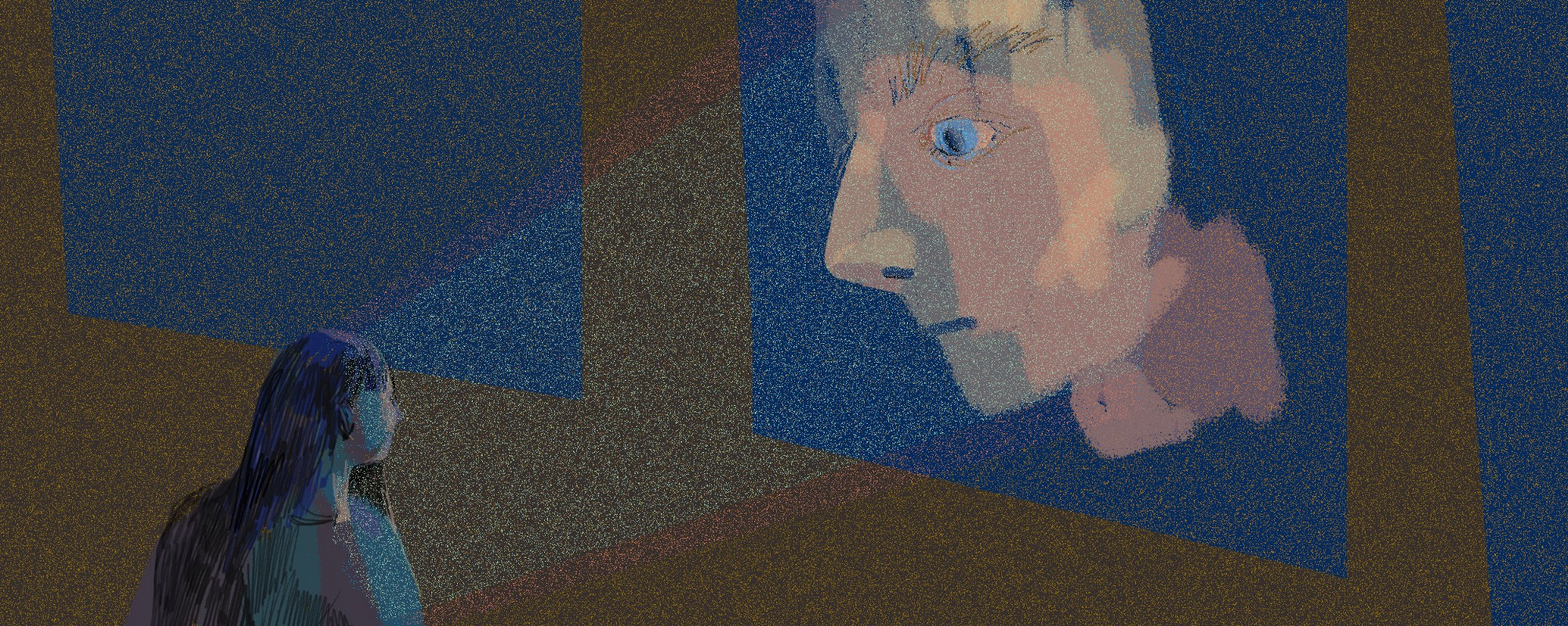
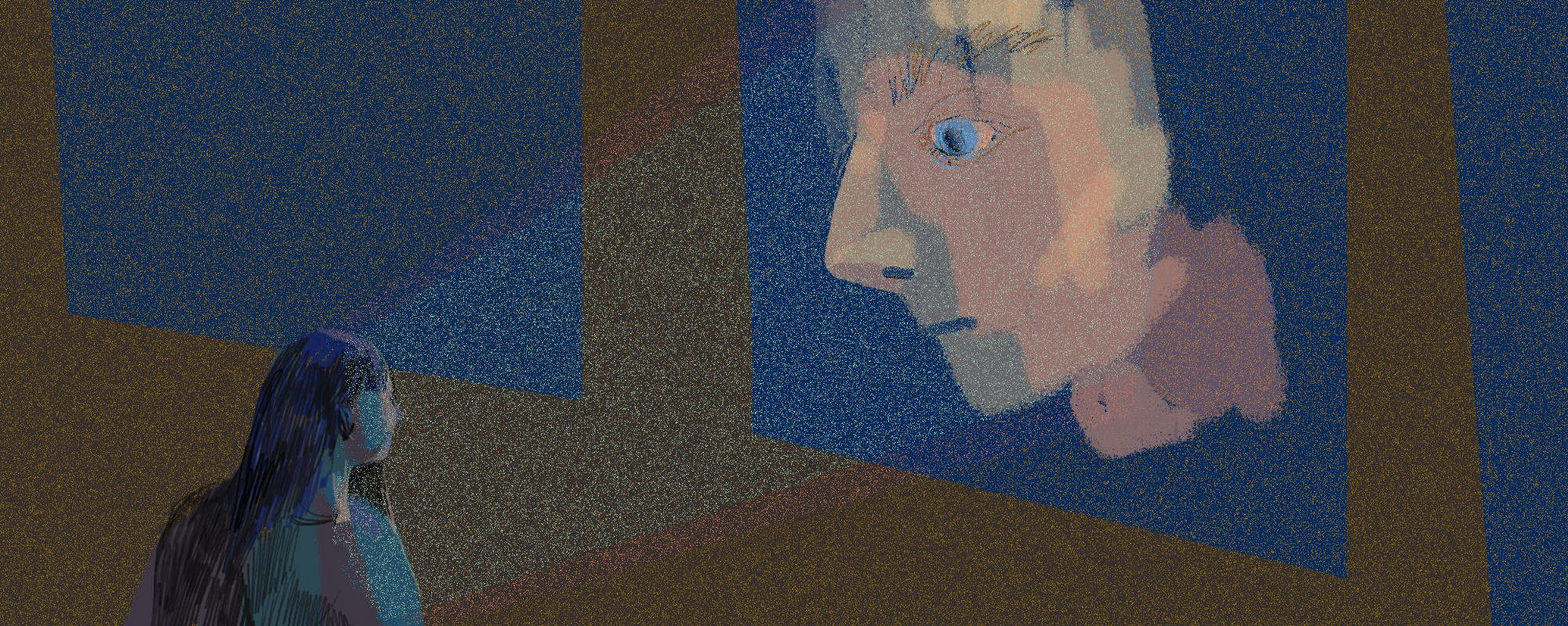
Compress image cover size

diff --git a/about/index.md b/about/index.md
@@ -8,7 +8,7 @@ modified: 2019-02-14 00:00:00
 navigation: true
 class: page-template
 subclass: 'post page'
-cover: assets/images/dark-space.png
+cover: assets/images/dark-space.jpg
 logo: assets/images/ghost.png
 ---
 
